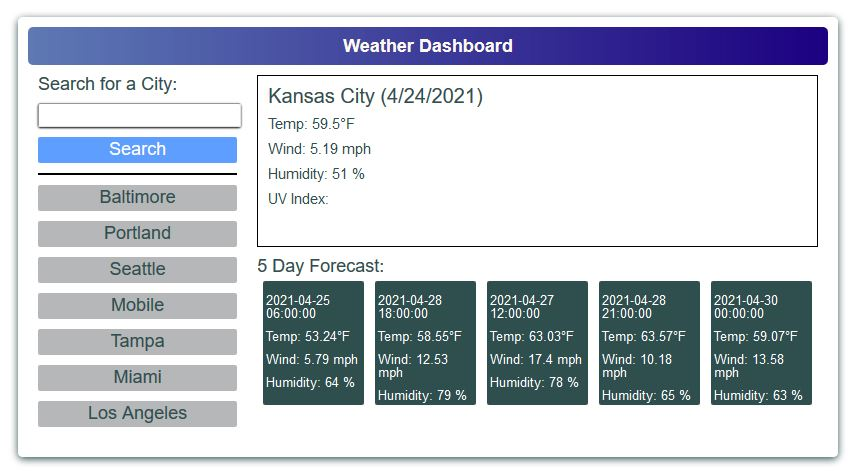
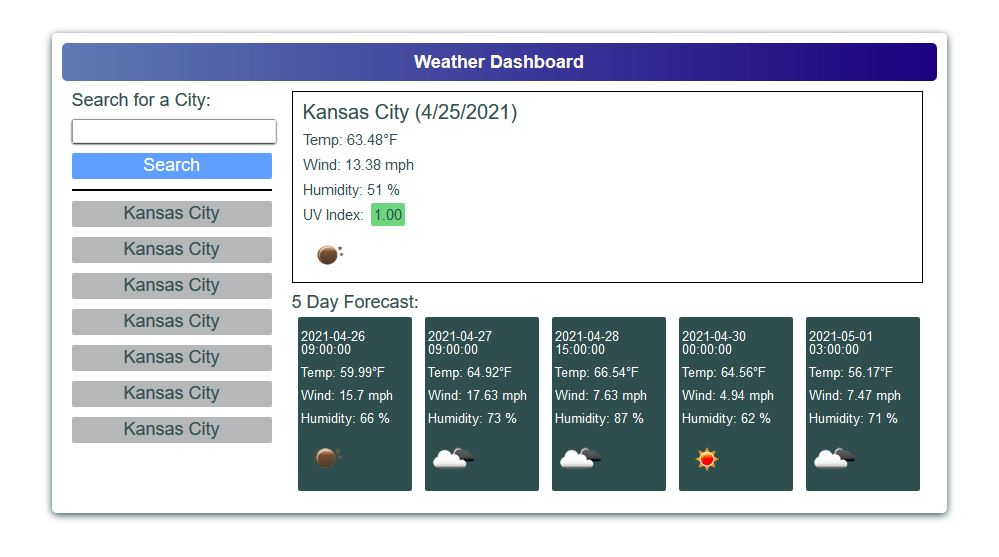
update

diff --git a/assets/script.js b/assets/script.js
@@ -23,6 +23,8 @@ var temp = $("<div>").addClass("temp");
 var wind = $("<div>").addClass("temp");
 var humidity = $("<div>").addClass("temp");
 var UVindex = $("<div>").addClass("temp");
+var UVindexBox = $("<div>").addClass("UVIndex");
+
 var icon = $("<img>").addClass("temp01");
 
 var date00 = $("<div>").addClass("temp01");
@@ -173,8 +175,6 @@ $(pastBtn06).on("click", function (event) {
 });
 
 
-
-
 containerBody.append(weatherBox);
 weatherBox.append(weatherToday);
 
@@ -199,7 +199,9 @@ fetch("https://api.openweathermap.org/data/2.5/forecast?q=" + city +"&units=impe
         wind.append(humidity);
         humidity.text("Humidity: " + data.list[0].main.humidity + " %");
         humidity.append(UVindex);
-        UVindex.text("UV Index: " );
+        UVindex.text("UV Index:  " );
+        UVindex.append(UVindexBox);
+        UVindexBox.text("1.00" );
         var iconCode = data.list[0].weather[0].icon;
         var iconUrl = "http://openweathermap.org/img/w/" + iconCode + ".png";
         cityName.append(icon);

diff --git a/assets/style.css b/assets/style.css
@@ -118,6 +118,19 @@ body {
   padding-top: 10px;
 }
 
+.UVIndex {
+  background-color: rgba(25, 189, 52, 0.637);
+  margin-top: 10px;
+  margin-left: 3px;
+
+  border-radius: 2px;
+  color: darkslategrey;
+  text-align: center;
+  padding: 3px;
+
+  display: inline;
+}
+
 .temp01{
   font-size: 13px;
   padding-top: 10px;
